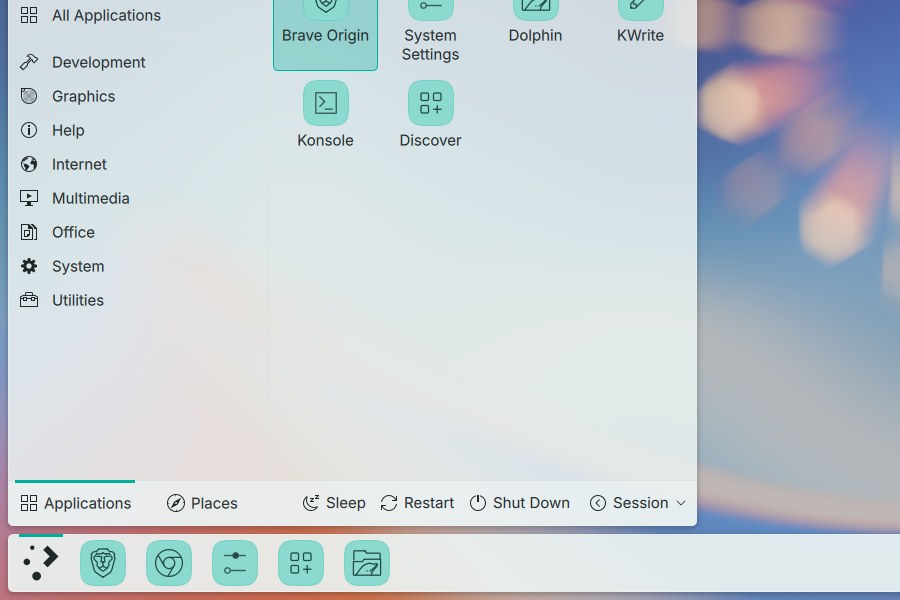
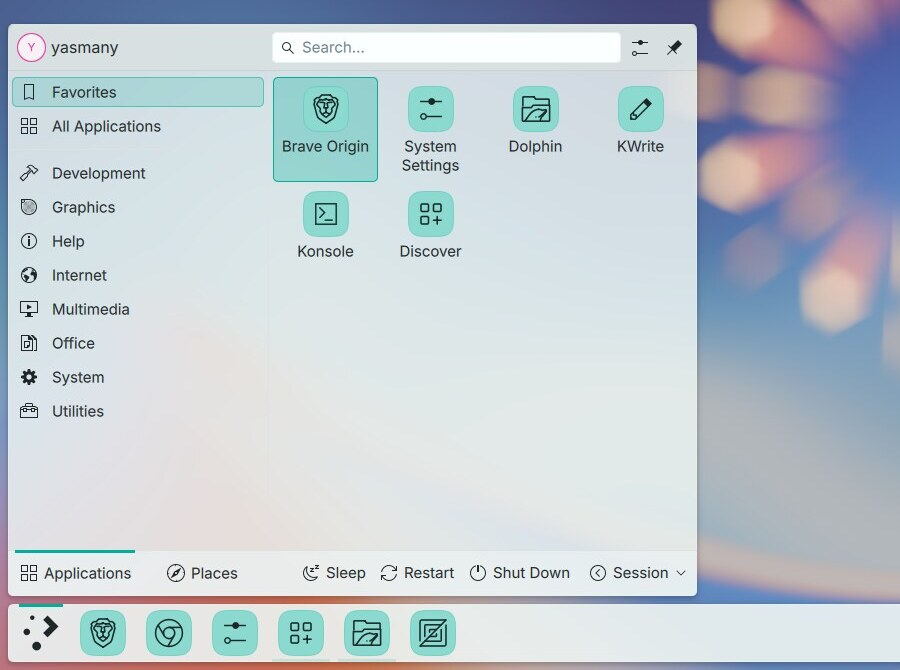
Add a task that takes the themes' pictures from the test VM, and take them
The previews of both global themes and the README's screenshots were made
by hand four times in a day, and were out of date again: they predated the
icons' edge, the glyphs in the text color and the small plain icons.
tests/theme-screenshots.sh (mise run theme:screenshots) drives the running
test VM, takes them and puts the session back as it was.

diff --git a/README.md b/README.md
@@ -324,4 +324,4 @@ Rules:
 - Removing a name from `flatpaks.list` does not uninstall it from existing machines: use `flatpak uninstall`.
 - Flatpak apps don't use the host's codecs or VA-API driver; they use their runtime's (`ffmpeg-full` and the Intel VA-API extension).
 - The roadmap and the owner's decisions are in `CLAUDE.md`, and what was tested is in `docs/status.md`. What to check on the XPS first is in `docs/xps16-checklist.md`.
-- To take the screenshots again: apply each theme in a test VM (`plasma-apply-lookandfeel -a katze-dark`), capture with Spectacle, and save them in `docs/screenshots/` at 1600 px wide. `katze-mono.py --follow-accent --sheet` draws the icon sheet.
+- To take the screenshots again: `mise run theme:screenshots`, with the test VM running and its user logged in. It applies each theme there, captures the desktop and the launcher, and writes the README's pictures and both themes' previews. `katze-mono.py --follow-accent --sheet` draws the icon sheet.

diff --git a/CLAUDE.md b/CLAUDE.md
@@ -201,6 +201,7 @@ mise run switch-local base          # switch THIS machine to a local build (the 
 mise run switch xps16-da16260       # switch THIS machine to the published image, requiring its signature
 mise run power --load 60            # THIS machine: profile, RAPL limits, turbostat idle and under load → output/power/
 mise run icons:preview              # one picture of the icons in both themes; --set dark.tint=0.3 tries a look
+mise run theme:screenshots          # previews of both themes and the README's pictures, from the running test VM
 mise run clean                      # remove output/, after asking
 ```
 
